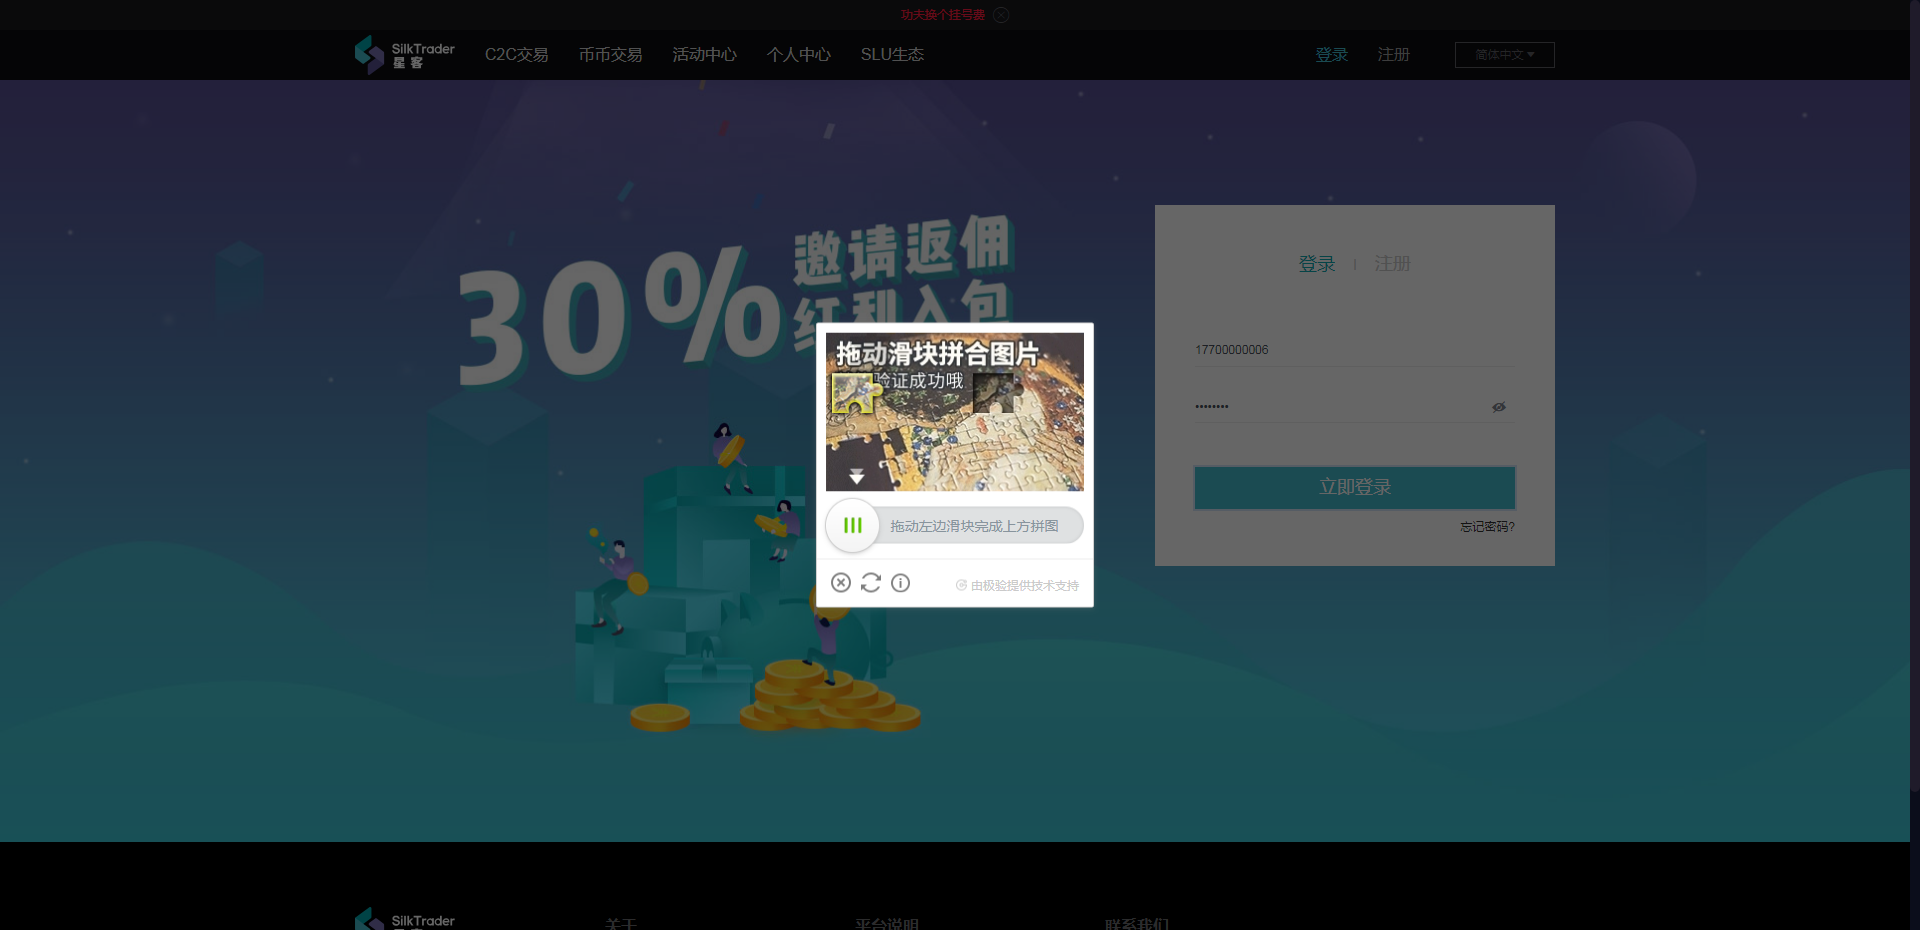
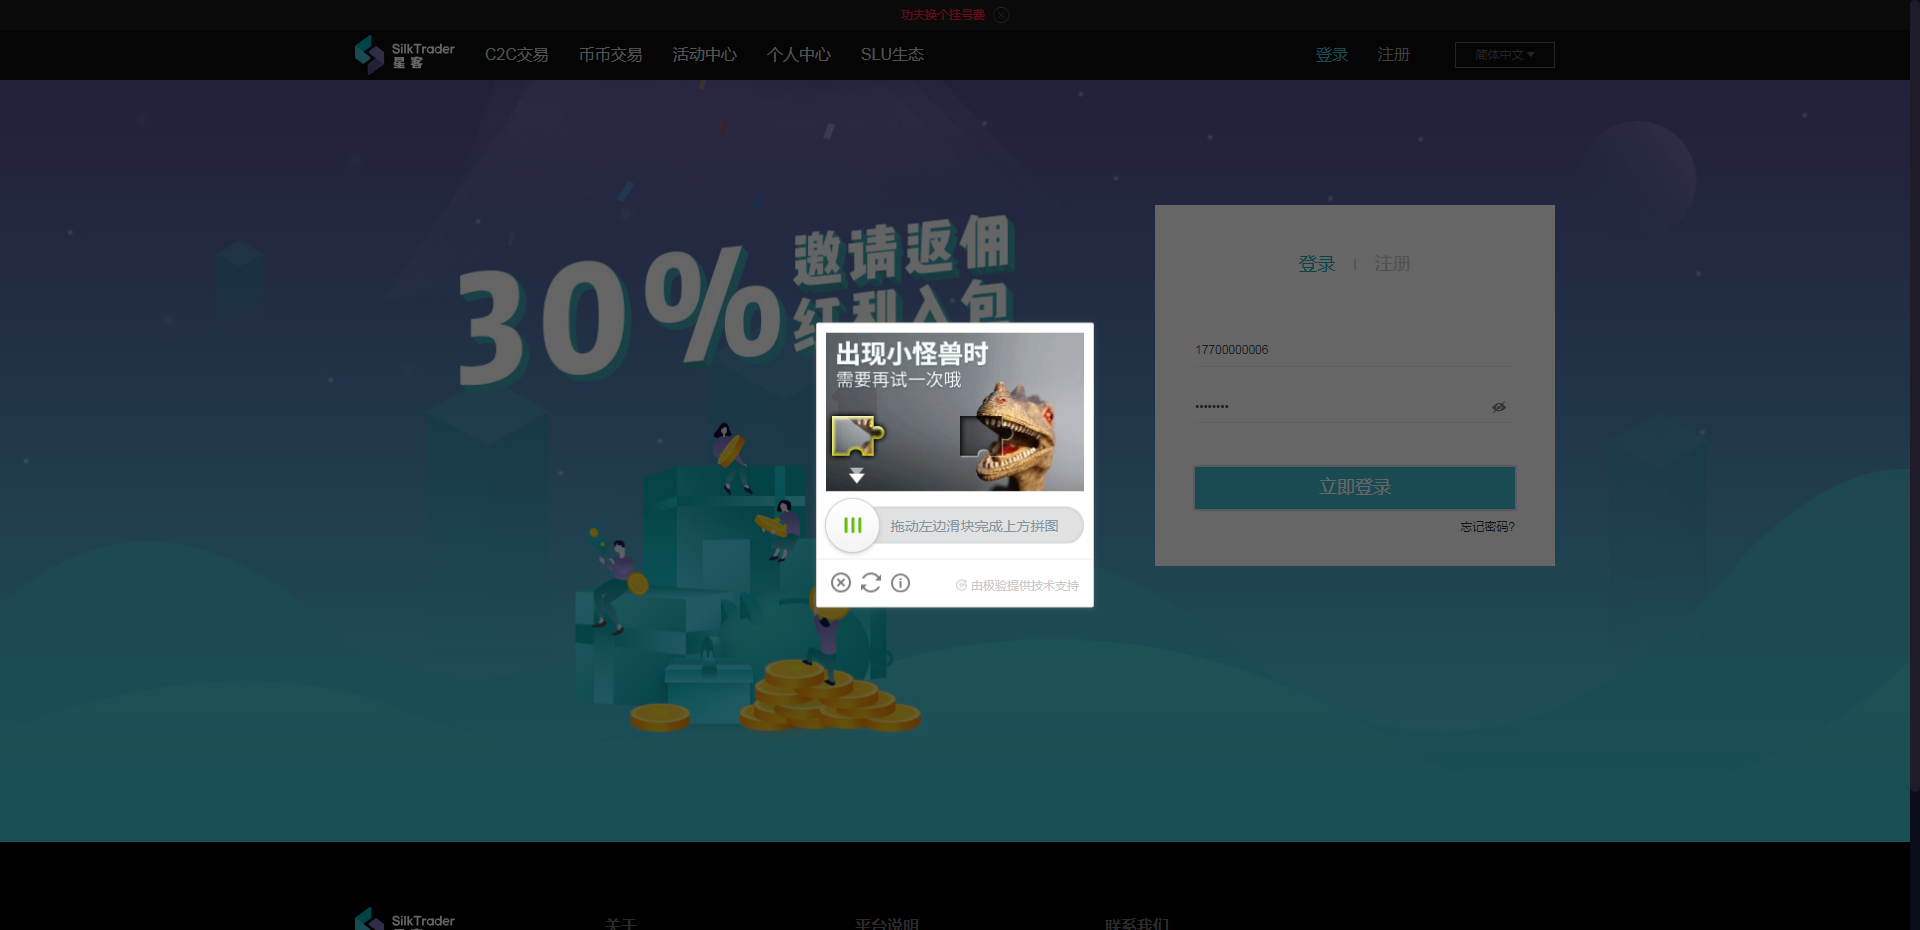
登录滑块验证

Changed region(s): [[0.4062, 0.343, 0.5625, 0.5301]]

diff --git a/Conf/Post.py b/Conf/Post.py
@@ -1,23 +1,51 @@
 #!/usr/bin/python3
 # -*- coding: utf-8 -*-
+# @author : csl
+# @date   : 2018/09/17 10:52
 
 import requests
 import json
+from Data.common_datas import Host, COMMON_TOKEN
 
-#使用post请求方式对手机号码进行删除请求
-#举个栗子：删除测试服务器上的手机号码
-def Dele(phone):
-    url = 'http://112.74.29.84:***/api/User/deleteuser'
-    teph = {'phone':phone}
-    headers = {'content-type': 'application/json'}
-    r = requests.post(url,json=teph,headers=headers)
-    token_str = r.text
-    token_dict = json.loads(token_str)
-    if token_dict['success']==True:
-        return True
-    else:
-        return False
+class Post(object):
 
-#test
-r = input("请输入手机号码:",)
-print(Dele(r))
+    """
+    @:description：封装基础请求及数据库操作
+    """
+
+    def request2DKApi(self, server, data={}, requestmethord="POST", header={"access-auth-token":COMMON_TOKEN}):
+        """
+        :description: 请求后端接口
+        :return: request.test转换成json格式
+        """
+        req_url = Host + server
+        if requestmethord == "POST":
+            req = requests.post(req_url, data, headers=header)
+            return json.loads(req.text)
+        elif requestmethord == "GET":
+            req = requests.get(req_url)
+            return json.loads(req.text)
+        else:
+            print("请求方式错误，请核对。。。")
+
+    #使用post请求方式对手机号码进行删除请求
+    #举个栗子：删除测试服务器上的手机号码
+    def Dele(self, phone):
+        url = 'http://112.74.29.84:***/api/User/deleteuser'
+        teph = {'phone': phone}
+        headers = {'content-type': 'application/json'}
+        r = requests.post(url,json=teph,headers=headers)
+        token_str = r.text
+        token_dict = json.loads(token_str)
+        if token_dict['success']==True:
+            return True
+        else:
+            return False
+
+
+if __name__ == "__main__":
+    # r = input("请输入手机号码:",)
+    # print(Post().Dele(r))
+    r = Post().request2DKApi("uc/check/login",{})
+    print(r["data"])
+    print(type(r))

diff --git a/BaseSe/Base.py b/BaseSe/Base.py
@@ -4,6 +4,7 @@
 # Selenium以外的基础方法
 
 from PIL import Image
+import requests
 
 class Base_image_move_distance(object):
     """
@@ -37,7 +38,7 @@ class Base_image_move_distance(object):
         """
         orimage = self.contrast_OriginalImage()
         lens = self.get_diff_location(self.login_image, orimage)
-        return lens - 827
+        return lens - 827 -10  # -10为根据实际定位效果往回退10个像素
 
     def contrast_OriginalImage(self):
         """
@@ -48,8 +49,8 @@ class Base_image_move_distance(object):
         try:
             for i in self.original_image_list:
                 # 对比两张图片同一点位上的像素值大小
-                pixel1 = self.login_image.getpixel((1004, 381))
-                pixel2 = i.getpixel((1004, 381))
+                pixel1 = self.login_image.getpixel((1045, 344))
+                pixel2 = i.getpixel((1045, 344))
                 # pixel[0]代表R值，pixel[1]代表G值，pixel[2]代表B值
                 if abs(pixel1[0] - pixel2[0]) < 5 and abs(pixel1[1] - pixel2[1] < 5) and abs(pixel1[2] - pixel2[2] < 5):
                     return i

diff --git a/Pages/DKpc_HomePage.py b/Pages/DKpc_HomePage.py
@@ -10,7 +10,7 @@ class DKpc_HomePage(Pyse):
 
     """定位器"""
     # 币币交易tab页面
-    tab_Switch_exchange = (By.XPATH, "//ul[@class='ivu-menu']//a[@href='#/exchange']/li[contains(text(),'币币交易')]")
+    tab_Switch_exchange = (By.XPATH, "//ul[@class='ivu-menu']//a[@href='#/exchange']")
     # 登录按钮
     # button_jump_login = (By.XPATH, "//ul[@class='ivu-menu']//a[@href='#/login']//li[contains(text(),'登录')]")
     button_jump_login = (By.XPATH, "//ul[@class='ivu-menu']//a[@href='#/login']")

diff --git a/index.py b/index.py
@@ -13,7 +13,7 @@ def create_suite():
 
     discover = unittest.defaultTestLoader.discover(
         start_dir=test_dir,
-        pattern='Test_*.py',
+        pattern='Test_DKpc.py',  # 指定执行文件
         top_level_dir=None
     )
  

diff --git a/Data/common_datas.py b/Data/common_datas.py
@@ -1,0 +1,7 @@
+# coding:utf-8
+# @author : csl
+# @date   : 2018/09/17 10:44
+# @description ： 基础数据配置
+
+Host = "http://api.400.pro/"
+COMMON_TOKEN = "1000000000001"
